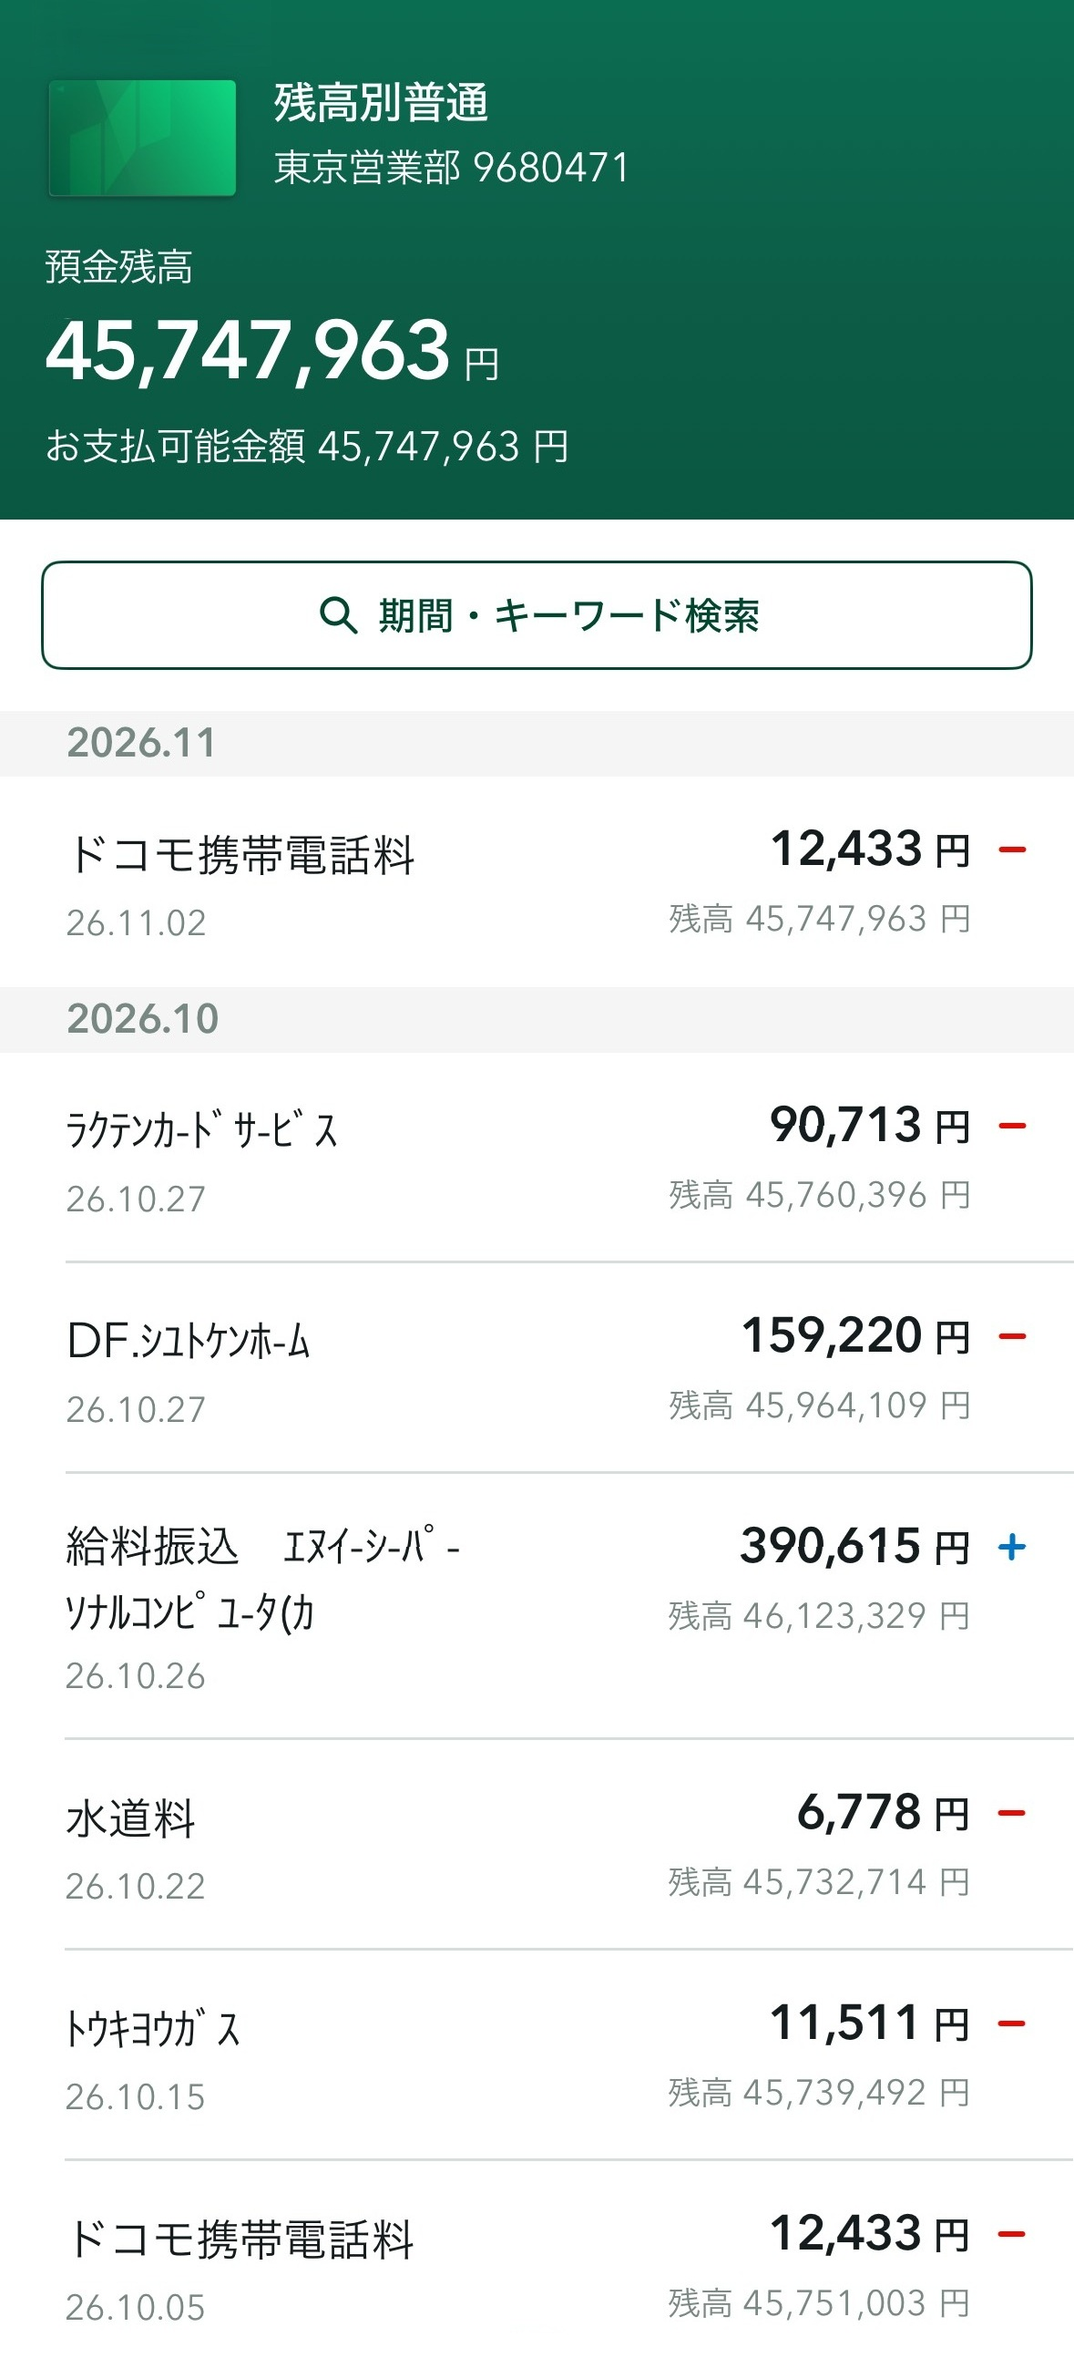
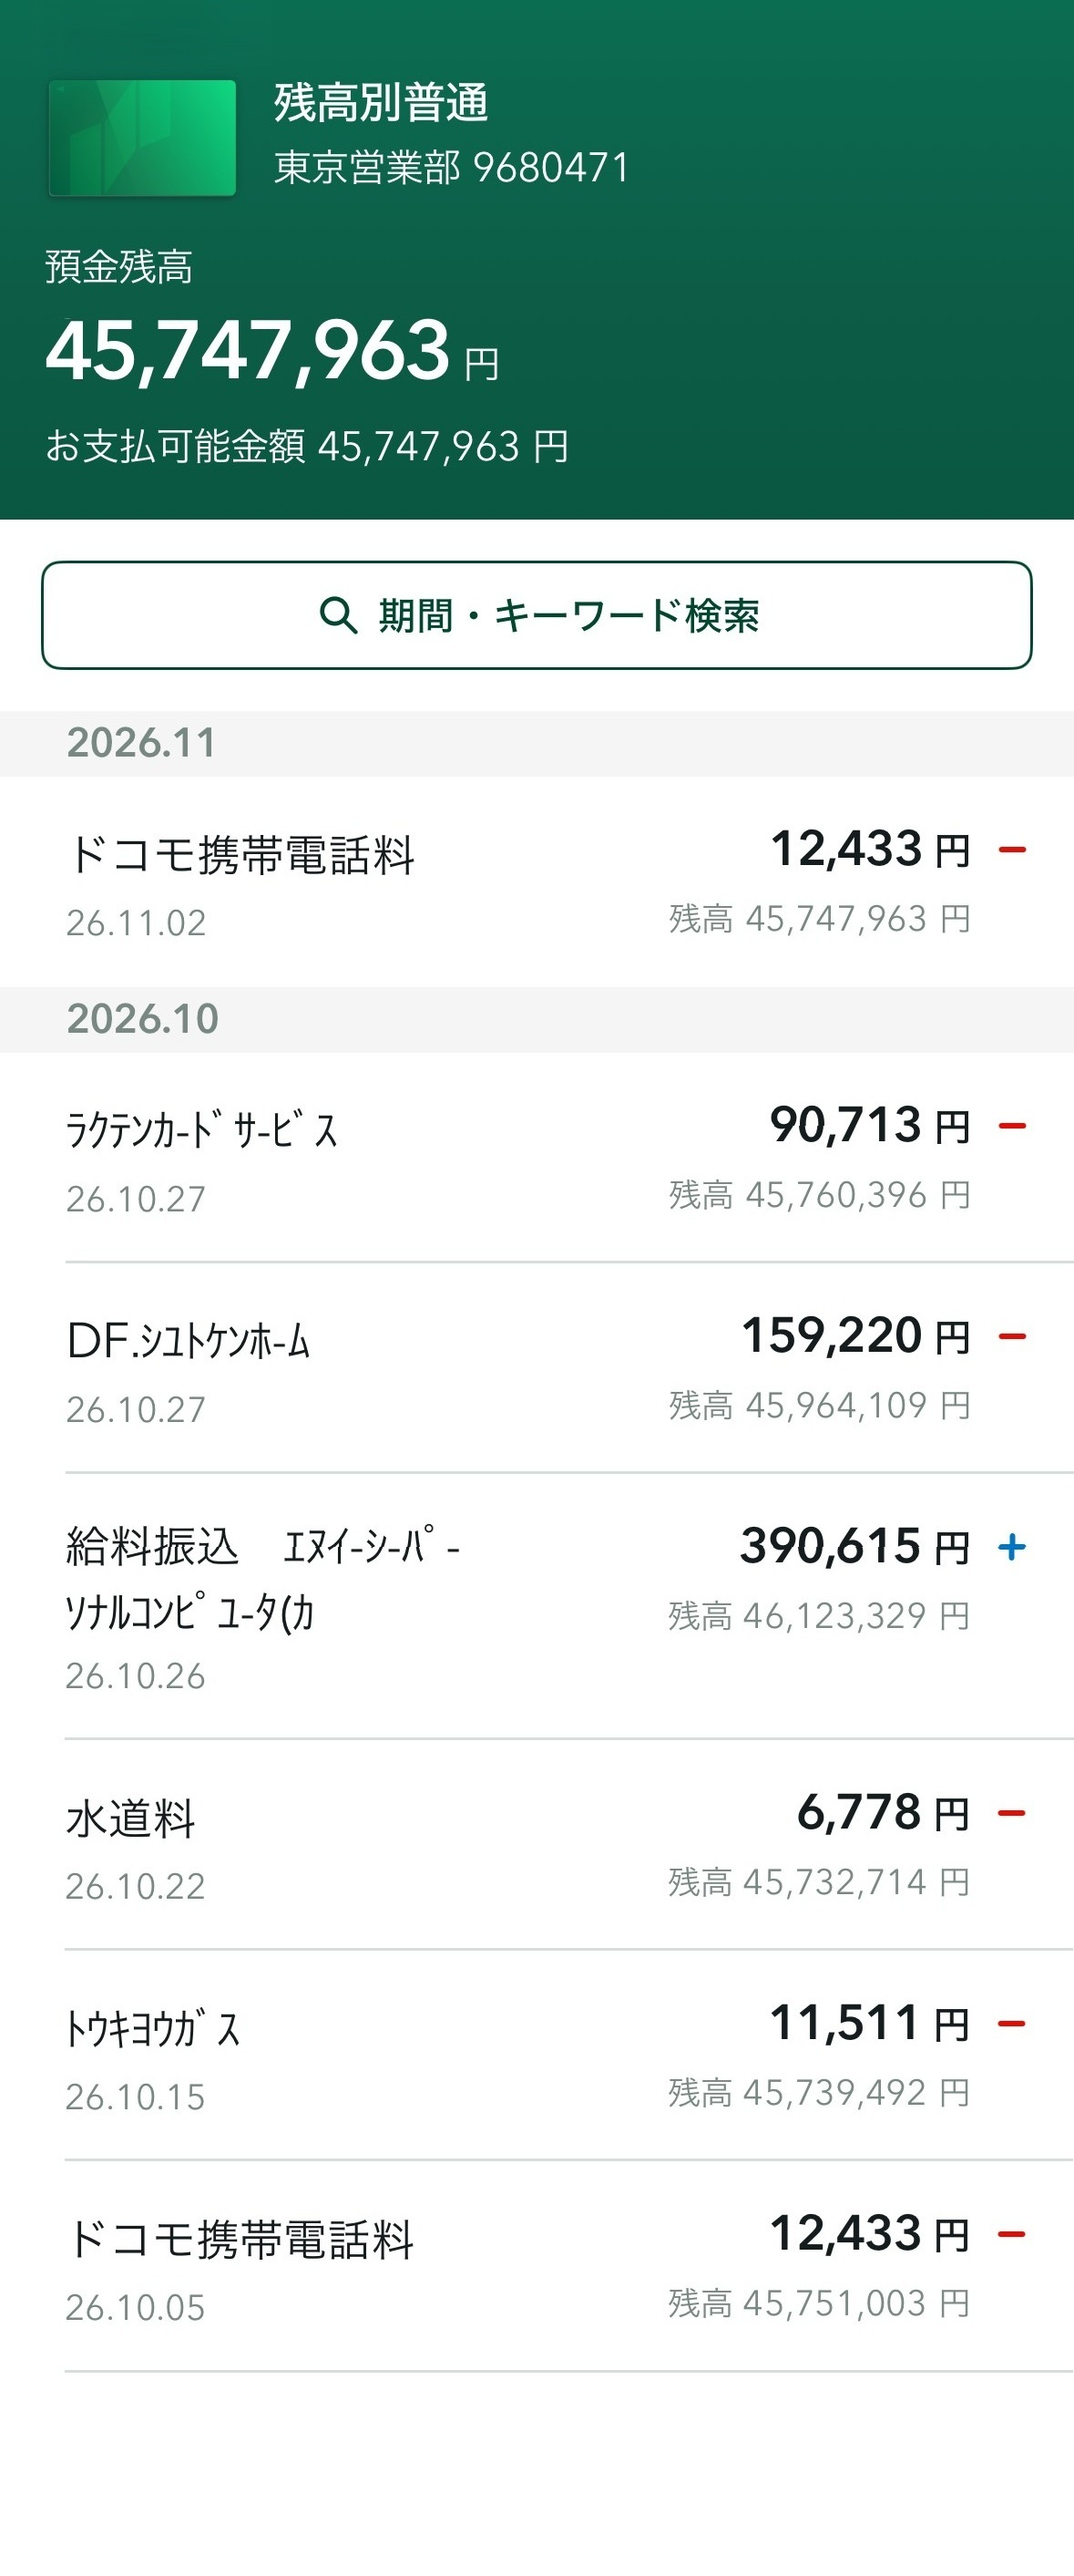
Add files via upload

diff --git a/index.html b/index.html
@@ -66,11 +66,12 @@
      position: absolute;
      top: env(safe-area-inset-top);
      left: 0;
-     width: 60px;       
-     height: 37px;      
+     width: 60px;       /* 左端からの横幅（必要に応じて調整してください） */
+     height: 37px;      /* ヘッダーの高さに合わせる */
      z-index: 40;
      cursor: pointer;
      -webkit-tap-highlight-color: transparent;
+     /* background-color: rgba(255, 0, 0, 0.3); ※位置調整時はコメントアウトを外すと赤く表示されます */
    }
 
    /* 中央スクロール領域 */
@@ -80,12 +81,11 @@
      left: 0;
      width: 100%;
      height: 100%;
-     overflow-y: scroll; /* ★ auto から scroll に変更して慣性スクロールを安定化 */
-     -webkit-overflow-scrolling: touch; /* iOSのなめらかな慣性スクロールを維持 */
+     overflow-y: auto;
+     -webkit-overflow-scrolling: touch;
      padding-top: calc(37px + env(safe-area-inset-top));
      padding-bottom: calc(70px + env(safe-area-inset-bottom));
      z-index: 10;
-     overscroll-behavior-y: none; /* ★ 上下端で引っ張ったときのゴム伸び（バウンス）を完全に防止 */
    }
 
    .scroll-wrapper {
@@ -174,6 +174,7 @@
   <!-- 上部固定ヘッダー -->
   <div class="header-fixed" id="header-bg">
     <div class="ios-status-clock" id="ios-status-clock">00:00</div>
+    <!-- 【追加】ヘッダー左側の「＜」戻るボタン用クリックエリア -->
     <a href="#" class="header-back-link" id="back-trigger"></a>
   </div>
 
@@ -214,28 +215,25 @@
    const img = document.getElementById('content-img');
    const headerBg = document.getElementById('header-bg');
    const contentClock = document.getElementById('content-clock');
-   const scrollContainer = document.getElementById('scroll-container');
    const accountBox = document.getElementById('switch-trigger');
    const homeTrigger = document.getElementById('home-trigger');
    const backTrigger = document.getElementById('back-trigger');
 
-   // 残高ボックスクリック：content2.jpg ＆ header2.jpg に切り替え、時計非表示 ＆ スクロールをトップにリセット
-   accountBox.addEventListener('click', function(e) {
-     e.preventDefault();
-     img.src = 'content2.jpg?v=1';
-     headerBg.style.backgroundImage = "url('header2.jpg')";
-     contentClock.style.display = 'none';
-     scrollContainer.scrollTop = 0; // 上部に固定
-   });
-
-   // ホーム画面に戻す関数
+   // 共通：ホーム画面（content.jpg & header.jpg）に戻す関数
    function goToHome(e) {
      e.preventDefault();
      img.src = 'content.jpg?v=2';
      headerBg.style.backgroundImage = "url('header.jpg')";
      contentClock.style.display = 'block';
-     scrollContainer.scrollTop = 0; // ホームに戻った時も上部へリセット
    }
+
+   // 残高ボックスクリック：content2.jpg ＆ header2.jpg に切り替え、時計非表示
+   accountBox.addEventListener('click', function(e) {
+     e.preventDefault();
+     img.src = 'content2.jpg?v=1';
+     headerBg.style.backgroundImage = "url('header2.jpg')";
+     contentClock.style.display = 'none';
+   });
 
    // フッターのホームボタンクリック：元の画面に戻る
    homeTrigger.addEventListener('click', goToHome);
@@ -245,4 +243,3 @@
 </script>
 </body>
 </html>
-```[cite: 1, 2]
